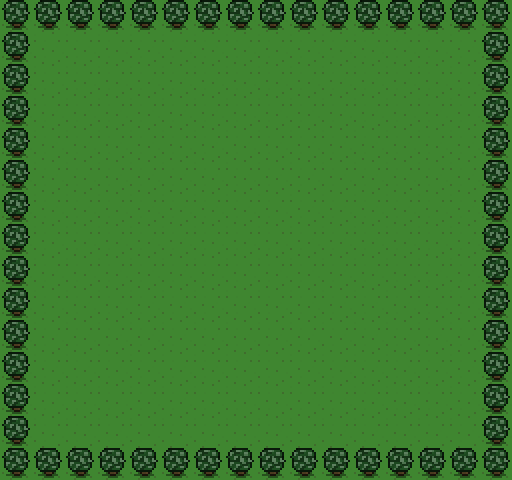
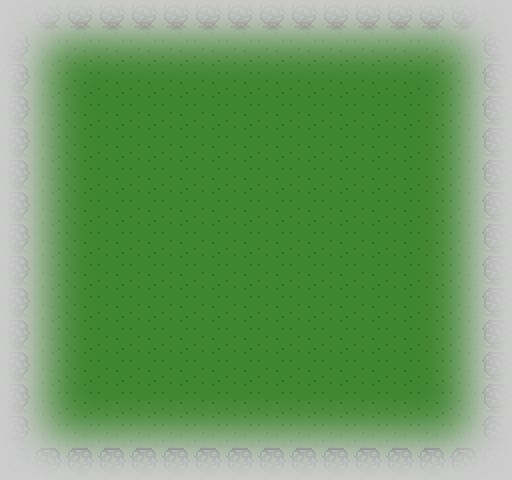
bullet movement, css

diff --git a/game/js/game.js b/game/js/game.js
@@ -86,7 +86,10 @@ var update = function (modifier) {
 	if (32 in keysDown) { // Player holding right
 		bullet.x = hero.x;
 		bullet.y = hero.y;
+
 	}
+	//move bullet
+	bullet.x += hero.speed * modifier;
 
 	// Are they touching?
 	if (
@@ -119,13 +122,13 @@ var render = function () {
 	}
 
 	// Score
-	ctx.fillStyle = "rgb(250, 250, 250)";
-	ctx.font = "24px Helvetica";
 	ctx.textAlign = "left";
 	ctx.textBaseline = "top";
-	ctx.fillText("Goblins caught: " + monstersCaught, 32, 32);
+	ctx.fillStyle = "rgb(250, 250, 250)";
 	ctx.font = "36px Times New Roman";
-	ctx.fillText("otro texto" + monstersCaught, 32, 64);
+	ctx.fillText("1973", 32, 32);
+	ctx.font = "24px Helvetica";
+	ctx.fillText("Death count: " + monstersCaught, 32, 80);
 };
 
 // The main game loop

diff --git a/game/css/style.css b/game/css/style.css
@@ -1,0 +1,24 @@
+canvas{
+	position: fixed;
+    left: 50%;
+    margin-top: 80px;
+    margin-left: -240px;
+	border-radius:25px;
+	box-shadow: 0px 0px 20px 20px #CCCCCC;
+}
+
+#central{
+	text-align: center;
+	background-color: #CCCCCC;
+	width: 100%;
+}
+
+#stage{
+	text-align: center;
+	background-color: #CCCCCC;
+	width: 100%;
+}
+
+.boldie {
+	font-size: 80px;
+}

diff --git a/game/index.html b/game/index.html
@@ -6,6 +6,9 @@
 		<link rel="stylesheet" type="text/css" href="css/style.css">
 	</head>
 	<body>
-		<script src="js/game.js"></script>
+		
+				
+					<script src="js/game.js"></script>
+				
 	</body>
 </html>
